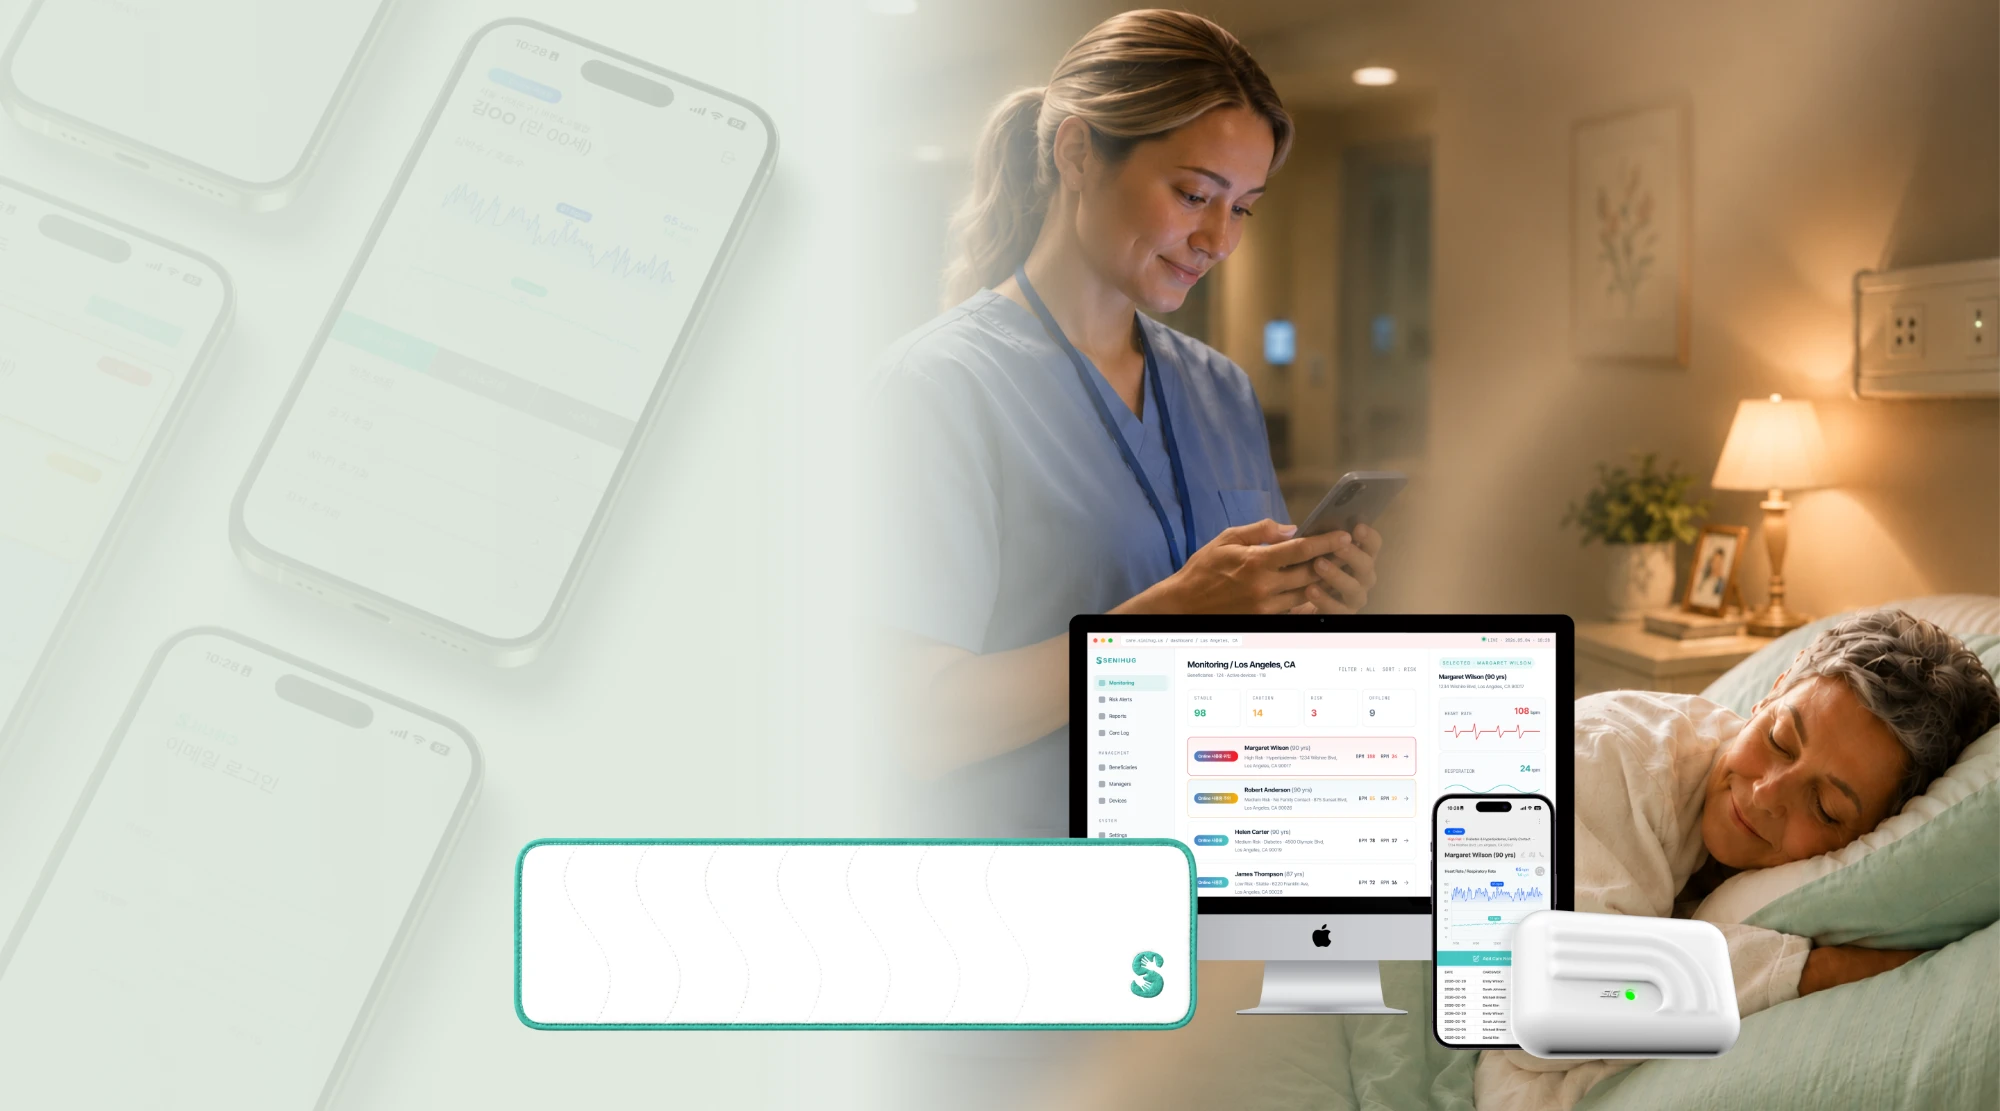
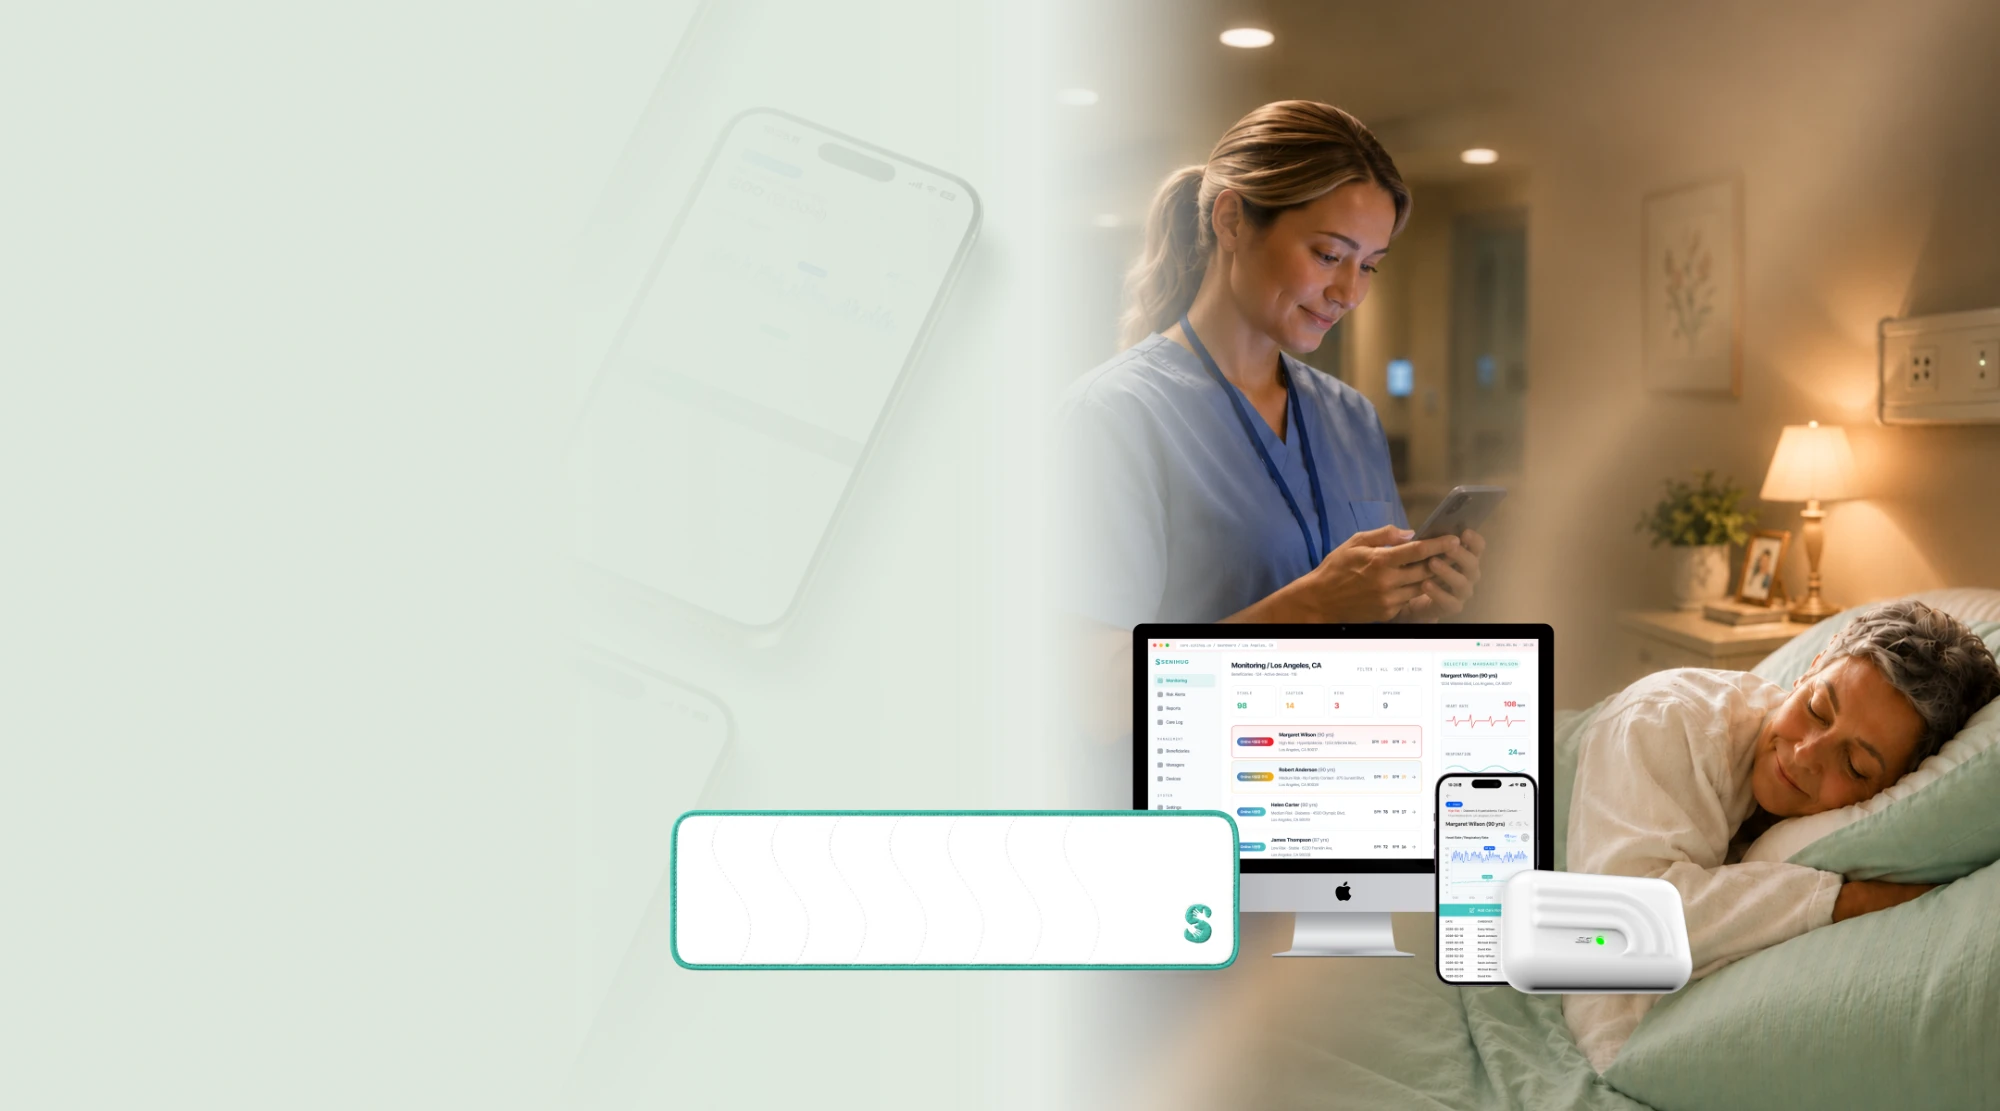
Fit the first hero photo on wide and mobile screens
- New wide photo with more headroom, plus a portrait photo served under 600px
- Hero grows with viewport width above 1500px so the photo is not cropped
- Mobile: copy sits on a plain band with the photo below it
- Backdrop behind slider controls where they overlap the product in the photo

Claude-Session: https://claude.ai/code/session_01Hc2mHbNitbn8dLzq2XHj1i

diff --git a/SIG_Corporation_Web_v2/index.html b/SIG_Corporation_Web_v2/index.html
@@ -6,7 +6,7 @@
   <meta name="description" content="비접촉 생체신호 기술을 기반으로 하는 AIoT 헬스케어 기업, 시그코퍼레이션. 시니허그와 함께 돌봄의 사각지대를 줄여갑니다.">
   <meta name="theme-color" content="#253318"><meta property="og:title" content="시그코퍼레이션 | SIG Corporation"><meta property="og:description" content="돌봄의 빈틈을, 기술로 연결합니다.">
   <link rel="icon" type="image/svg+xml" href="assets/sig-logo.svg"><link rel="stylesheet" href="styles.css">
-  <link rel="preload" as="image" href="assets/hero-care.webp">
+  <link rel="preload" as="image" href="assets/hero-care.webp" media="(min-width:601px)"><link rel="preload" as="image" href="assets/hero-care-mobile.webp" media="(max-width:600px)">
   <script defer src="content.js"></script><script defer src="app.js"></script>
 </head>
 <body>
@@ -14,7 +14,7 @@
 <header class="site-header"><div class="header-inner"><a class="brand" href="index.html" aria-label="시그코퍼레이션 홈"><img src="assets/sig-logo.svg" width="80" height="38" alt="SIG"></a><button class="menu-toggle" aria-expanded="false" aria-controls="main-nav"><span></span><span></span><span class="sr-only">메뉴 열기</span></button><nav id="main-nav" aria-label="주 메뉴"><a href="#about">About</a><a href="#business">Business</a><a href="#clients">Clients</a><a href="#history">History</a><a href="#news">News</a><a class="nav-contact" href="#contact">Contact <span aria-hidden="true">↗</span></a></nav></div></header>
 <main id="main">
   <section class="hero" aria-label="시니허그 소개" aria-roledescription="슬라이드" tabindex="0">
-    <div class="hero-slide is-active" data-slide="0" role="group" aria-label="1 / 3"><img class="hero-photo" src="assets/hero-care.webp" alt="잠든 시니어 곁에서 스마트폰으로 상태를 확인하는 돌봄 종사자와 시니허그 제품" fetchpriority="high" width="2000" height="1111"><div class="hero-shade"></div><div class="container hero-copy"><h1>돌봄의 사각지대를<br>없애다.</h1><p>보이지 않는 생체신호를 데이터로 읽고,<br>필요한 순간의 돌봄을 연결하는 시니허그.</p><a class="button" href="https://www.senihug.com/" target="_blank" rel="noopener">시니허그 알아보기 <span>↗</span></a></div></div>
+    <div class="hero-slide is-active" data-slide="0" role="group" aria-label="1 / 3"><picture><source media="(max-width:600px)" srcset="assets/hero-care-mobile.webp" width="1350" height="2000"><img class="hero-photo" src="assets/hero-care.webp" alt="잠든 시니어 곁에서 스마트폰으로 상태를 확인하는 돌봄 종사자와 시니허그 제품" fetchpriority="high" width="2000" height="1111"></picture><div class="hero-shade"></div><div class="container hero-copy"><h1>돌봄의 사각지대를<br>없애다.</h1><p>보이지 않는 생체신호를 데이터로 읽고,<br>필요한 순간의 돌봄을 연결하는 시니허그.</p><a class="button" href="https://www.senihug.com/" target="_blank" rel="noopener">시니허그 알아보기 <span>↗</span></a></div></div>
     <div class="hero-slide product-slide" data-slide="1" role="group" aria-label="2 / 3" aria-hidden="true" inert><div class="container hero-copy"><p class="eyebrow">CONTACTLESS CARE</p><h2>편안한 일상 속,<br>자연스러운 돌봄.</h2><p>몸에 부착하지 않는 비접촉 센싱.<br>익숙한 잠자리에서 돌봄이 시작됩니다.</p><a class="button" href="#business">시니허그의 기술 <span>↘</span></a></div><img class="hero-device" src="assets/hero-sensor.webp" alt="매트리스 아래에 설치하는 시니허그 센서와 심박·호흡 측정 화면" width="2000" height="1444"></div>
     <div class="hero-slide platform-slide" data-slide="2" role="group" aria-label="3 / 3" aria-hidden="true" inert><div class="container hero-copy"><p class="eyebrow">CONNECTED CARE</p><h2>작은 변화까지,<br>돌봄으로 연결하다.</h2><p>센싱에서 분석, 모니터링까지.<br>더 넓은 현장을 잇는 통합 케어 시스템.</p><a class="button" href="#contact">도입 문의하기 <span>↗</span></a></div><img class="hero-dashboard" src="assets/hero-platform.webp" alt="시니허그 통합 모니터링 대시보드와 모바일 앱 화면" width="2000" height="1444"></div>
     <div class="container hero-controls"><span class="slide-index"><b id="slide-current">01</b><span>/ 03</span></span><div class="slide-track" aria-hidden="true"><i></i></div><button id="hero-prev" aria-label="이전 슬라이드">←</button><button id="hero-next" aria-label="다음 슬라이드">→</button><button id="hero-play" aria-label="자동 재생 시작" aria-pressed="false">▶</button></div>

diff --git a/SIG_Corporation_Web_v2/styles.css b/SIG_Corporation_Web_v2/styles.css
@@ -94,3 +94,12 @@ html{scroll-behavior:auto}
 .history-next-list em{font-style:normal;font-size:12px;font-weight:600;letter-spacing:.04em;padding:5px 13px;border:1px solid var(--ink);border-radius:999px;color:var(--ink);white-space:nowrap}
 @media(max-width:900px){.history-next{grid-template-columns:29% 1fr;gap:50px;padding-top:50px}.history-next::before{left:calc(29% + 10px)}.history-next-label h3{font-size:76px}.history-next .history-next-label p{font-size:15px}.history-next-list li{grid-template-columns:78px 1fr auto;gap:16px}.history-next-list li::before{left:-45px}.history-next-list span{font-size:16px}}
 @media(max-width:600px){.history-next{display:block;margin:0 0 0 6px;padding:36px 0 0 24px}.history-next::before{left:0;bottom:0}.history-next-label{margin-bottom:22px}.history-next-label h3{font-size:54px;margin-bottom:8px;-webkit-text-stroke-width:1.2px}.history-next .history-next-label p{font-size:14px}.history-next-list li{grid-template-columns:70px 1fr auto;gap:12px;padding:18px 0}.history-next-list li::before{left:-29px}.history-next-list time,.history-next-list span{font-size:15px}.history-next-list em{font-size:11px;padding:4px 10px}}
+
+/* ---- 메인 1번 사진: 넓은 화면에서 위아래가 잘리지 않도록 높이를 화면 폭에 맞춘다 ---- */
+@media(min-width:1500px){.hero{height:clamp(800px,50vw,calc(100svh - var(--header)))}.hero-photo{object-position:center 40%}}
+@media(max-width:600px){.hero-photo{object-position:center top}}
+/* 넓은 화면에서는 넘김 버튼이 사진 속 매트 제품과 겹치므로 버튼 뒤에 반투명 바탕을 깐다 */
+@media(min-width:1576px){.hero-controls::before{content:'';position:absolute;left:-22px;top:-9px;bottom:-9px;width:440px;border-radius:999px;background:#f3f5eed9;backdrop-filter:blur(8px);z-index:-1}}
+/* 모바일 1번: 글자는 위쪽 단색 바탕에, 세로 사진은 그 아래에 배치해 인물이 글자에 가리지 않게 한다 */
+@media(max-width:600px){.hero-photo{top:235px;height:calc(100% - 235px);object-position:center 12%}.hero-shade{background:linear-gradient(180deg,#f3f5ee 0,#f3f5ee 240px,#f3f5ee00 380px)}}
+@media(max-width:600px){.hero-controls::before{content:'';position:absolute;left:-12px;right:-12px;top:-6px;bottom:-6px;border-radius:999px;background:#f3f5eed9;backdrop-filter:blur(8px);z-index:-1}}
